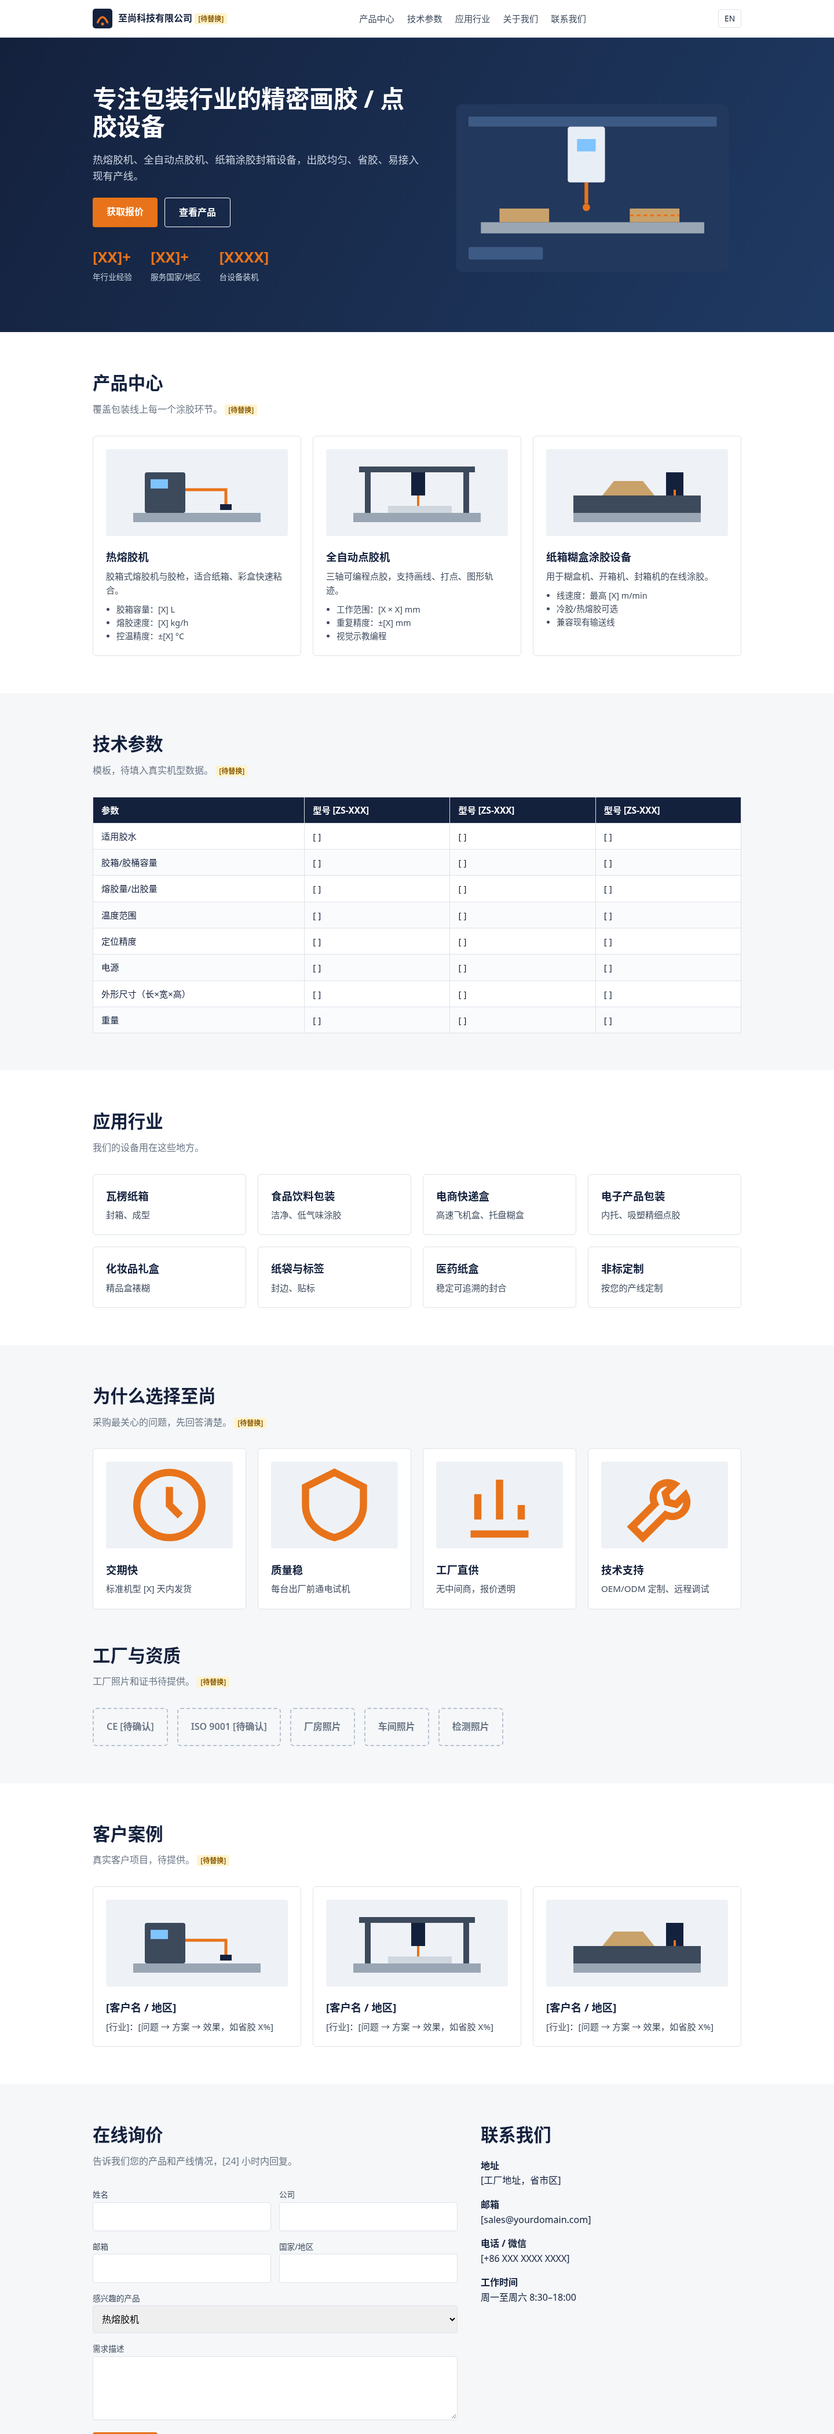
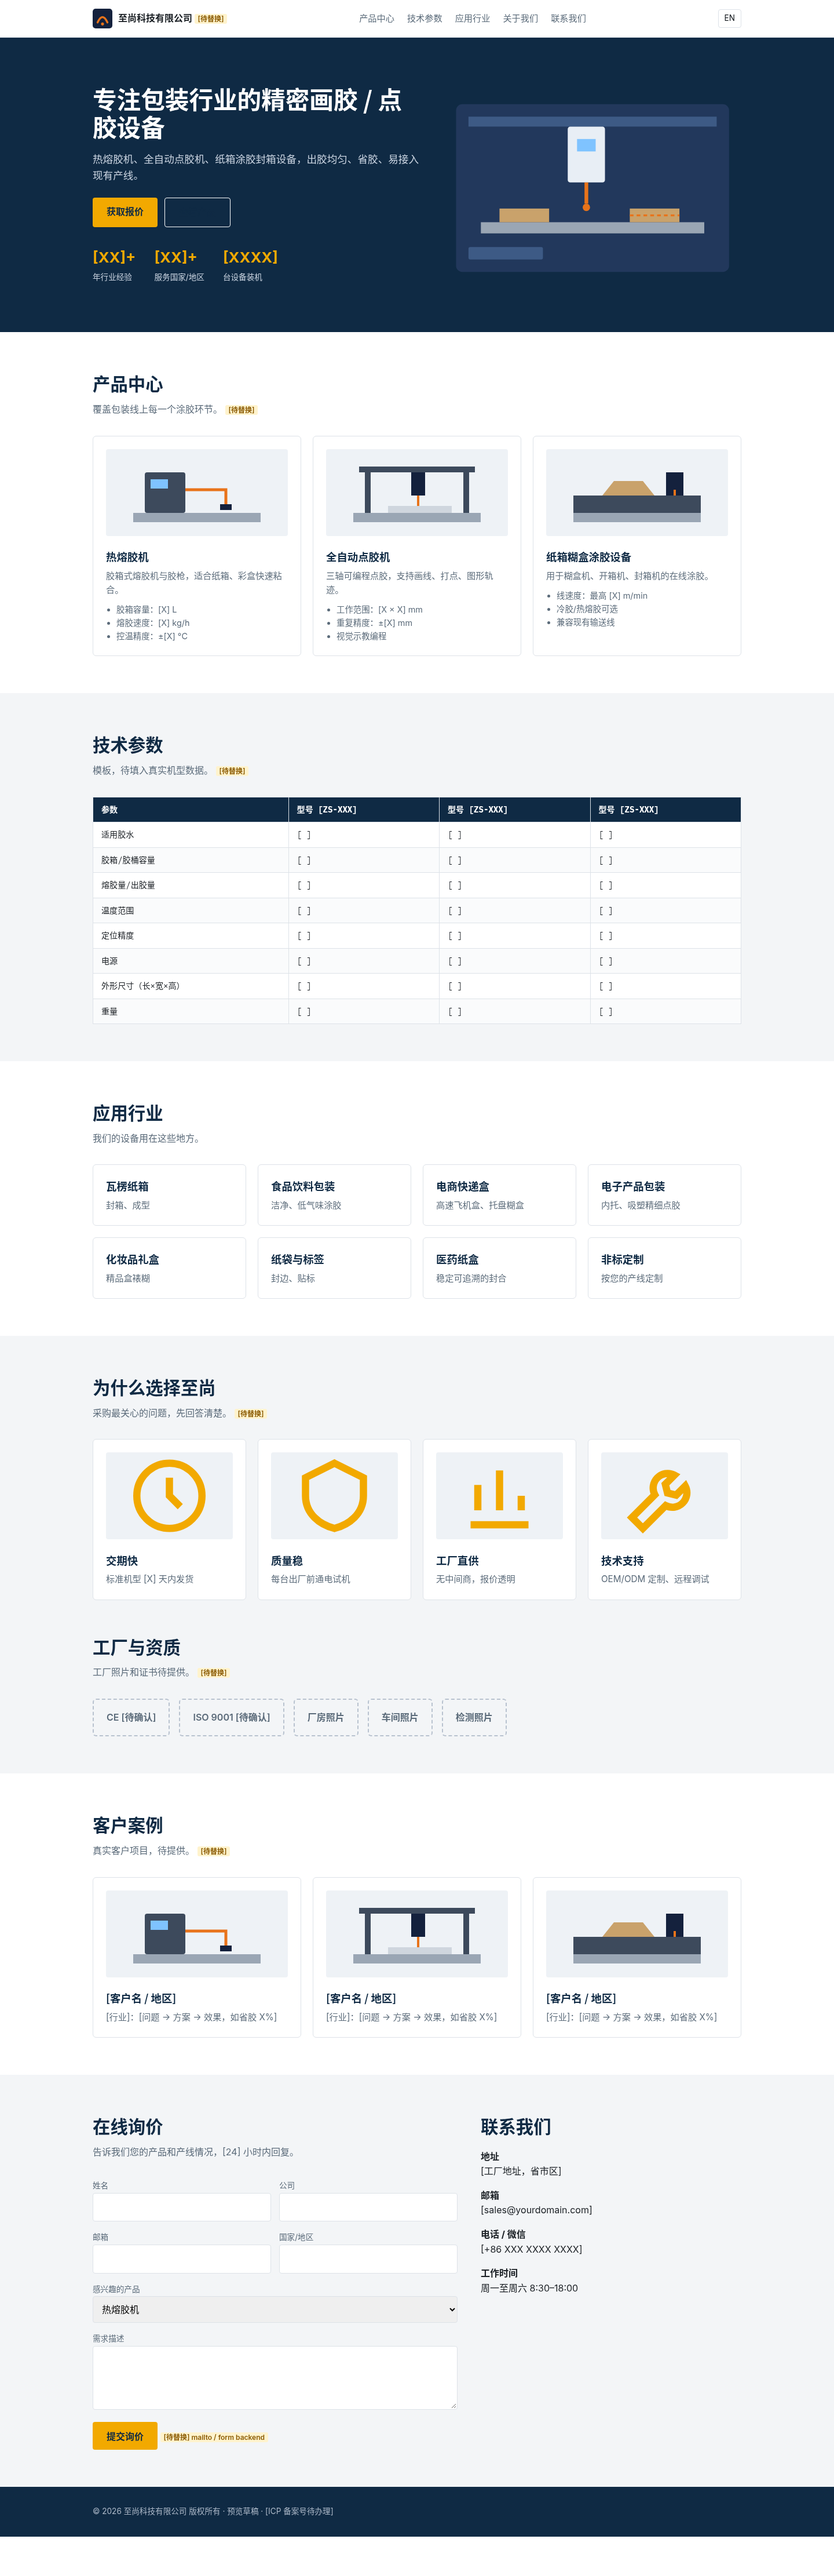
Apply designer spec

diff --git a/assets/style.css b/assets/style.css
@@ -1,5 +1,5 @@
-:root{--ink:#14213d;--steel:#3d4a5c;--mute:#6b7685;--line:#dde2e8;--bg:#f5f7f9;--accent:#e8731a;--blue:#1f5fa8}
-*{box-sizing:border-box}body{margin:0;font-family:system-ui,-apple-system,"Segoe UI","PingFang SC","Microsoft YaHei",sans-serif;color:var(--ink);line-height:1.6}
+:root{--ink:#0F2A44;--text:#1A1F24;--steel:#5B6B7A;--mute:#5B6B7A;--line:#dde2e8;--bg:#F3F5F7;--accent:#F2A900}
+*{box-sizing:border-box}body{margin:0;font-family:Inter,"IBM Plex Sans","Noto Sans SC","Source Han Sans SC",sans-serif;color:var(--text);line-height:1.6}
 a{color:inherit}.wrap{max-width:1160px;margin:0 auto;padding:0 20px}
 .ph{background:#fff3cd;color:#8a5a00;font-size:.75em;padding:1px 6px;border-radius:3px;font-weight:600;white-space:nowrap}
 header{position:sticky;top:0;background:#fff;border-bottom:1px solid var(--line);z-index:9}
@@ -7,9 +7,9 @@ header .wrap{display:flex;align-items:center;justify-content:space-between;heigh
 .logo{display:flex;align-items:center;gap:10px;font-weight:800;text-decoration:none}.logo svg{width:34px;height:34px}
 nav{display:flex;gap:22px;font-size:.95rem}nav a{text-decoration:none;color:var(--steel)}nav a:hover{color:var(--accent)}
 .lang{border:1px solid var(--line);padding:4px 10px;border-radius:4px;text-decoration:none;font-size:.85rem}
-.btn{display:inline-block;background:var(--accent);color:#fff;padding:12px 24px;border-radius:4px;text-decoration:none;font-weight:600;border:0;cursor:pointer;font-size:1rem}
+.btn{display:inline-block;background:var(--accent);color:#0F2A44;padding:12px 24px;border-radius:4px;text-decoration:none;font-weight:600;border:0;cursor:pointer;font-size:1rem}
 .btn.ghost{background:transparent;border:1px solid #fff}
-.hero{background:linear-gradient(120deg,#14213d,#1f3a63);color:#fff;padding:72px 0}
+.hero{background:#0F2A44;color:#fff;padding:72px 0}
 .hero .wrap{display:grid;grid-template-columns:1.1fr 1fr;gap:40px;align-items:center}
 .hero h1{font-size:2.6rem;line-height:1.15;margin:0 0 16px}.hero p{color:#c9d3e0;font-size:1.1rem}
 .hero .cta{display:flex;gap:12px;margin-top:24px;flex-wrap:wrap}
@@ -31,3 +31,10 @@ label{font-size:.85rem;color:var(--steel)}
 footer{background:var(--ink);color:#aab6c6;padding:32px 0;font-size:.85rem}
 @media(max-width:820px){nav{display:none}.hero .wrap,.contact{grid-template-columns:1fr}.g3,.g4{grid-template-columns:1fr 1fr}.hero h1{font-size:1.9rem}form{grid-template-columns:1fr}.tbl{overflow-x:auto}}
 @media(max-width:520px){.g3,.g4{grid-template-columns:1fr}.stats{gap:18px}}
+h1,h2,h3{font-family:"Barlow Semi Condensed","Noto Sans SC",sans-serif;color:var(--ink)}.hero h1{color:#fff}
+:lang(zh-CN) h1,:lang(zh-CN) h2,:lang(zh-CN) h3{font-family:"Noto Sans SC","Source Han Sans SC",sans-serif;font-weight:700}
+table{font-family:"IBM Plex Mono",monospace;font-size:.88rem}
+.bead{display:block;width:100%;max-width:520px;height:14px;margin:4px 0 18px}.bead path{stroke:var(--accent);stroke-width:4;fill:none;stroke-linecap:round;stroke-dasharray:600;stroke-dashoffset:600;animation:draw 2.4s linear forwards}
+.divider{height:14px;max-width:1160px;margin:0 auto;padding:0 20px}.divider svg{width:180px;height:14px}.divider path{stroke:var(--accent);stroke-width:3;fill:none;stroke-linecap:round}
+@keyframes draw{to{stroke-dashoffset:0}}@media(prefers-reduced-motion:reduce){.bead path{animation:none;stroke-dashoffset:0}}
+.kw{font-size:.8rem;color:var(--steel);margin-top:10px}

diff --git a/gen.py b/gen.py
@@ -1,28 +1,28 @@
 import json
 P=lambda s:f'<span class="ph">{s}</span>'
-LOGO='<svg viewBox="0 0 40 40"><rect width="40" height="40" rx="6" fill="#14213d"/><path d="M10 28 Q20 6 30 28" stroke="#e8731a" stroke-width="4" fill="none" stroke-linecap="round"/><circle cx="20" cy="31" r="3" fill="#e8731a"/></svg>'
+LOGO='<svg viewBox="0 0 40 40"><rect width="40" height="40" rx="6" fill="#0F2A44"/><path d="M10 28 Q20 6 30 28" stroke="#F2A900" stroke-width="4" fill="none" stroke-linecap="round"/><circle cx="20" cy="31" r="3" fill="#F2A900"/></svg>'
 def mach(kind):
   # neutral generated illustrations
-  base='<rect x="40" y="110" width="220" height="16" fill="#9aa6b4"/>'
-  if kind==0: art='<rect x="60" y="40" width="70" height="70" rx="4" fill="#3d4a5c"/><rect x="70" y="52" width="30" height="16" fill="#7fc3ff"/><path d="M130 70 H200 V95" stroke="#e8731a" stroke-width="5" fill="none"/><rect x="190" y="95" width="20" height="10" fill="#14213d"/>'
-  elif kind==1: art='<rect x="50" y="30" width="200" height="10" fill="#3d4a5c"/><rect x="60" y="30" width="10" height="80" fill="#3d4a5c"/><rect x="230" y="30" width="10" height="80" fill="#3d4a5c"/><rect x="140" y="40" width="24" height="40" fill="#14213d"/><path d="M152 80 V98" stroke="#e8731a" stroke-width="4"/><rect x="100" y="98" width="110" height="12" fill="#cfd6de"/>'
-  else: art='<rect x="40" y="80" width="220" height="30" fill="#3d4a5c"/><path d="M90 80 l20-25 h50 l20 25z" fill="#c9a26b"/><rect x="200" y="40" width="30" height="40" fill="#14213d"/><path d="M215 80 V70" stroke="#e8731a" stroke-width="4"/><circle cx="60" cy="118" r="7" fill="#14213d"/><circle cx="240" cy="118" r="7" fill="#14213d"/>'
+  base='<rect x="40" y="110" width="220" height="16" fill="#5B6B7A"/>'
+  if kind==0: art='<rect x="60" y="40" width="70" height="70" rx="4" fill="#1d3d5e"/><rect x="70" y="52" width="30" height="16" fill="#F2A900"/><path d="M130 70 H200 V95" stroke="#F2A900" stroke-width="5" fill="none"/><rect x="190" y="95" width="20" height="10" fill="#0F2A44"/>'
+  elif kind==1: art='<rect x="50" y="30" width="200" height="10" fill="#1d3d5e"/><rect x="60" y="30" width="10" height="80" fill="#1d3d5e"/><rect x="230" y="30" width="10" height="80" fill="#1d3d5e"/><rect x="140" y="40" width="24" height="40" fill="#0F2A44"/><path d="M152 80 V98" stroke="#F2A900" stroke-width="4"/><rect x="100" y="98" width="110" height="12" fill="#2c5378"/>'
+  else: art='<rect x="40" y="80" width="220" height="30" fill="#1d3d5e"/><path d="M90 80 l20-25 h50 l20 25z" fill="#2c5378"/><rect x="200" y="40" width="30" height="40" fill="#0F2A44"/><path d="M215 80 V70" stroke="#F2A900" stroke-width="4"/><circle cx="60" cy="118" r="7" fill="#0F2A44"/><circle cx="240" cy="118" r="7" fill="#0F2A44"/>'
   return f'<svg viewBox="0 0 300 150" role="img" aria-label="illustration">{art}{base}</svg>'
-HERO='<svg viewBox="0 0 480 340" aria-hidden="true"><rect x="20" y="40" width="440" height="270" rx="10" fill="#22385c"/><rect x="40" y="60" width="400" height="16" fill="#3d5a85"/><rect x="200" y="76" width="60" height="90" rx="4" fill="#e8eef5"/><rect x="215" y="96" width="30" height="20" fill="#7fc3ff"/><path d="M230 166 V200" stroke="#e8731a" stroke-width="6"/><circle cx="230" cy="206" r="6" fill="#e8731a"/><rect x="60" y="230" width="360" height="18" fill="#9aa6b4"/><rect x="90" y="208" width="80" height="22" fill="#c9a26b"/><rect x="300" y="208" width="80" height="22" fill="#c9a26b"/><path d="M300 219 h80" stroke="#e8731a" stroke-width="3" stroke-dasharray="6 5"/><rect x="40" y="270" width="120" height="20" rx="3" fill="#3d5a85"/></svg>'
+HERO='<svg viewBox="0 0 480 340" aria-hidden="true"><rect x="20" y="40" width="440" height="270" rx="10" fill="#16365a"/><rect x="40" y="60" width="400" height="16" fill="#24496f"/><rect x="200" y="76" width="60" height="90" rx="4" fill="#24496f"/><rect x="215" y="96" width="30" height="20" fill="#F2A900"/><path d="M230 166 V200" stroke="#F2A900" stroke-width="6"/><circle cx="230" cy="206" r="6" fill="#F2A900"/><rect x="60" y="230" width="360" height="18" fill="#5B6B7A"/><rect x="90" y="208" width="80" height="22" fill="#2c5378"/><rect x="300" y="208" width="80" height="22" fill="#2c5378"/><path d="M300 219 h80" stroke="#F2A900" stroke-width="3" stroke-dasharray="6 5"/><rect x="40" y="270" width="120" height="20" rx="3" fill="#24496f"/></svg>'
 I=['<svg class="ico" viewBox="0 0 24 24" fill="none" stroke="currentColor" stroke-width="2"><circle cx="12" cy="12" r="9"/><path d="M12 7v5l3 3"/></svg>','<svg class="ico" viewBox="0 0 24 24" fill="none" stroke="currentColor" stroke-width="2"><path d="M12 3l8 4v5c0 5-4 8-8 9-4-1-8-4-8-9V7z"/></svg>','<svg class="ico" viewBox="0 0 24 24" fill="none" stroke="currentColor" stroke-width="2"><path d="M4 20h16M6 16V9M12 16V5M18 16v-4"/></svg>','<svg class="ico" viewBox="0 0 24 24" fill="none" stroke="currentColor" stroke-width="2"><path d="M14.7 6.3a4 4 0 0 0-5.4 5.4L3 18l3 3 6.3-6.3a4 4 0 0 0 5.4-5.4l-2.5 2.5-2.4-.6-.6-2.4z"/></svg>']
 T={
-'en':dict(lang='en',ph='[PLACEHOLDER]',title='Zhishang Technology | Glue Dispensing & Hot-Melt Gluing Machines for Packaging',desc='Manufacturer of hot-melt glue machines, automatic dispensing systems and carton gluing equipment for packaging lines. Factory-direct pricing, OEM support, worldwide shipping.',
+'en':dict(lang='en',ph='[PLACEHOLDER]',title='Glue Dispensing Machine &amp; Hot Melt Gluing Machine Manufacturer | Zhishang Technology',desc='Manufacturer of hot-melt glue machines, automatic dispensing systems and carton gluing equipment for packaging lines. Factory-direct pricing, OEM support, worldwide shipping.',
  co='Zhishang Technology Co., Ltd.',nav=['Products','Specs','Applications','About','Contact'],sw=('中文','zh/'),
- h1='Precise Glue Dispensing Machines for Packaging Lines',hp='Hot-melt gluing, automatic dispensing and carton sealing equipment, engineered in China and built for consistent bead quality, low glue waste and easy line integration.',
+ h1='Precision in Every Bead',hp='Gluing &amp; dispensing systems for packaging lines worldwide. Hot melt gluing machines, glue dispensing machines and carton gluing machines built for consistent beads and low glue waste.',
  c1='Request a Quote',c2='View Products',stats=[('[XX]+','Years in business'),('[XX]+','Countries served'),('[XXXX]','Units installed')],
  ph2=('Product Range','Equipment for every gluing step in your packaging line.'),
- prods=[('Hot-Melt Glue Machines','Tank melters and glue guns for fast-setting bonds on cartons and cases.',['Tank capacity: [X] L','Melt rate: [X] kg/h','Temperature control ±[X] °C']),
-  ('Automatic Dispensing Systems','Programmable XYZ dispensing for beads, dots and patterns with repeatable accuracy.',['Working area: [X × X] mm','Repeatability: ±[X] mm','Visual path teaching']),
-  ('Carton & Box Gluing Lines','Inline glue application for folder-gluers, case erectors and box sealing.',['Line speed: up to [X] m/min','Cold glue / hot-melt options','Fits existing conveyors'])],
+ kw='Also: hot melt adhesive melter · cold glue applicator · glue spray system · glue pattern controller · case sealing glue system',prods=[('Hot Melt Gluing Machines','Tank melters and glue guns for fast-setting bonds on cartons and cases.',['Tank capacity: [X] L','Melt rate: [X] kg/h','Temperature control ±[X] °C']),
+  ('Automatic Glue Dispensing Machines','Programmable XYZ dispensing for beads, dots and patterns with repeatable accuracy.',['Working area: [X × X] mm','Repeatability: ±[X] mm','Visual path teaching']),
+  ('Carton Gluing Machines','Inline glue application for folder-gluers, case erectors and box sealing.',['Line speed: up to [X] m/min','Cold glue / hot-melt options','Fits existing conveyors'])],
  sp=('Technical Specifications','Template. Values to be filled from real model data.'),
  th=['Parameter','Model [ZS-XXX]','Model [ZS-XXX]','Model [ZS-XXX]'],
  rows=['Glue type','Tank / reservoir capacity','Melt rate / output','Temperature range','Positioning accuracy','Power supply','Dimensions (L×W×H)','Weight'],
- ap=('Applications','Where our machines are used.'),apps=[('Corrugated Cartons','Case sealing and box forming.'),('Food & Beverage Packaging','Clean, low-odour adhesive application.'),('E-commerce Boxes','High-speed tray and mailer gluing.'),('Electronics Packaging','Fine-dot dispensing on inserts and trays.'),('Cosmetic & Gift Boxes','Rigid box wrapping and lining.'),('Paper Bags & Labels','Seam and label gluing.'),('Pharmaceutical Cartons','Traceable, consistent sealing.'),('Custom Projects','Tailored to your line. Ask us.')],
+ ap=('Applications','Where our machines are used.'),apps=[('Folding Carton Gluers','Inline glue for folder-gluer lines.'),('Case Erectors','Hot melt for case forming.'),('Corrugated Boxes','Sealing and box forming.'),('Food Packaging','Clean, low-odour application.'),('Beverage Trays','High-speed tray gluing.'),('Paper Bags','Seam and bottom gluing.'),('Pharmaceutical Cartons','Traceable, consistent sealing.'),('E-commerce Box Sealing &amp; Gift Boxes','Mailers and rigid gift boxes.')],
  why=('Why Zhishang','What buyers care about, answered up front.'),whys=[('Fast delivery','Standard models ship in [X] days.'),('Reliable quality','Every machine is run-tested before shipping.'),('Factory-direct pricing','No middlemen, transparent quotes.'),('Engineering support','OEM/ODM customisation and remote commissioning.')],
  fac=('Factory & Certifications','Photos and certificates to be supplied.'),certs=['CE [TBC]','ISO 9001 [TBC]','Factory photo','Workshop photo','Testing photo'],
  cs=('Case Studies','Real customer projects. To be supplied.'),cases=[('[Customer / Country]','[Industry]: [Problem → Solution → Result, e.g. glue usage −X%]')]*3,
@@ -32,15 +32,15 @@ T={
  foot='Zhishang Technology Co., Ltd. [English name to be confirmed]. All rights reserved. Preview draft.'),
 'zh':dict(lang='zh-CN',ph='[待替换]',title='至尚科技 | 包装画胶机、点胶机、热熔胶机生产厂家',desc='至尚科技有限公司专业生产热熔胶机、全自动点胶机、纸箱糊盒涂胶设备，工厂直供，支持定制，服务国内外包装企业。',
  co='至尚科技有限公司',nav=['产品中心','技术参数','应用行业','关于我们','联系我们'],sw=('EN','../'),
- h1='专注包装行业的精密画胶 / 点胶设备',hp='热熔胶机、全自动点胶机、纸箱涂胶封箱设备，出胶均匀、省胶、易接入现有产线。',
+ h1='每一道胶线，都精准如一',hp='至尚科技 · 包装画胶与点胶设备，服务全球工厂。热熔胶机、全自动点胶机、纸箱涂胶设备，出胶均匀、省胶、易接入现有产线。',
  c1='获取报价',c2='查看产品',stats=[('[XX]+','年行业经验'),('[XX]+','服务国家/地区'),('[XXXX]','台设备装机')],
  ph2=('产品中心','覆盖包装线上每一个涂胶环节。'),
- prods=[('热熔胶机','胶箱式熔胶机与胶枪，适合纸箱、彩盒快速粘合。',['胶箱容量：[X] L','熔胶速度：[X] kg/h','控温精度：±[X] °C']),
+ kw='更多：热熔胶熔胶机 · 冷胶涂胶机 · 喷胶系统 · 胶型控制器 · 封箱涂胶系统',prods=[('热熔胶机','胶箱式熔胶机与胶枪，适合纸箱、彩盒快速粘合。',['胶箱容量：[X] L','熔胶速度：[X] kg/h','控温精度：±[X] °C']),
   ('全自动点胶机','三轴可编程点胶，支持画线、打点、图形轨迹。',['工作范围：[X × X] mm','重复精度：±[X] mm','视觉示教编程']),
   ('纸箱糊盒涂胶设备','用于糊盒机、开箱机、封箱机的在线涂胶。',['线速度：最高 [X] m/min','冷胶/热熔胶可选','兼容现有输送线'])],
  sp=('技术参数','模板，待填入真实机型数据。'),th=['参数','型号 [ZS-XXX]','型号 [ZS-XXX]','型号 [ZS-XXX]'],
  rows=['适用胶水','胶箱/胶桶容量','熔胶量/出胶量','温度范围','定位精度','电源','外形尺寸（长×宽×高）','重量'],
- ap=('应用行业','我们的设备用在这些地方。'),apps=[('瓦楞纸箱','封箱、成型'),('食品饮料包装','洁净、低气味涂胶'),('电商快递盒','高速飞机盒、托盘糊盒'),('电子产品包装','内托、吸塑精细点胶'),('化妆品礼盒','精品盒裱糊'),('纸袋与标签','封边、贴标'),('医药纸盒','稳定可追溯的封合'),('非标定制','按您的产线定制')],
+ ap=('应用行业','我们的设备用在这些地方。'),apps=[('糊盒机','折叠纸盒在线涂胶'),('开箱机','纸箱成型热熔胶'),('瓦楞纸箱','封箱、成型'),('食品包装','洁净、低气味涂胶'),('饮料托盘','高速托盘糊盒'),('纸袋','封边、糊底'),('医药纸盒','稳定可追溯的封合'),('电商封箱与礼盒','飞机盒、精品礼盒')],
  why=('为什么选择至尚','采购最关心的问题，先回答清楚。'),whys=[('交期快','标准机型 [X] 天内发货'),('质量稳','每台出厂前通电试机'),('工厂直供','无中间商，报价透明'),('技术支持','OEM/ODM 定制、远程调试')],
  fac=('工厂与资质','工厂照片和证书待提供。'),certs=['CE [待确认]','ISO 9001 [待确认]','厂房照片','车间照片','检测照片'],
  cs=('客户案例','真实客户项目，待提供。'),cases=[('[客户名 / 地区]','[行业]：[问题 → 方案 → 效果，如省胶 X%]')]*3,
@@ -66,18 +66,18 @@ def page(k,css,href):
 <title>{t['title']}</title><meta name="description" content="{t['desc']}">
 <link rel="canonical" href="{URL}{'' if k=='en' else 'zh/'}"><link rel="alternate" hreflang="en" href="{URL}"><link rel="alternate" hreflang="zh-CN" href="{URL}zh/">
 <meta property="og:title" content="{t['title']}"><meta property="og:description" content="{t['desc']}">
-<link rel="stylesheet" href="{css}"><script type="application/ld+json">{json.dumps(ld,ensure_ascii=False)}</script></head><body>
+<link rel="preconnect" href="https://fonts.googleapis.com"><link rel="stylesheet" href="https://fonts.googleapis.com/css2?family=Barlow+Semi+Condensed:wght@600;700&family=Inter:wght@400;600&family=IBM+Plex+Mono&family=Noto+Sans+SC:wght@400;700&display=swap"><link rel="stylesheet" href="{css}"><script type="application/ld+json">{json.dumps(ld,ensure_ascii=False)}</script></head><body>
 <header><div class="wrap"><a class="logo" href="#">{LOGO}<span>{t['co']} {ph}</span></a><nav>{nav}</nav><a class="lang" href="{t['sw'][1]}">{t['sw'][0]}</a></div></header>
 <main>
-<section class="hero"><div class="wrap"><div><h1>{t['h1']}</h1><p>{t['hp']}</p><div class="cta"><a class="btn" href="#quote">{t['c1']}</a><a class="btn ghost" href="#products">{t['c2']}</a></div>
+<section class="hero"><div class="wrap"><div><h1>{t['h1']}</h1><svg class="bead" viewBox="0 0 520 14" aria-hidden="true"><path d="M4 7 C80 2 140 12 220 7 S380 2 516 7"/></svg><p>{t['hp']}</p><div class="cta"><a class="btn" href="#quote">{t['c1']}</a><a class="btn ghost" href="#products">{t['c2']}</a></div>
 <div class="stats">{"".join(f"<div><b>{a}</b><span>{b}</span></div>" for a,b in t['stats'])}</div></div>{HERO}</div></section>
-<section id="products"><div class="wrap"><h2>{t['ph2'][0]}</h2><p class="sub">{t['ph2'][1]} {ph}</p><div class="grid g3">{prods}</div></div></section>
-<section id="specs" class="alt"><div class="wrap"><h2>{t['sp'][0]}</h2><p class="sub">{t['sp'][1]} {ph}</p><div class="tbl"><table><thead><tr>{"".join(f"<th>{h}</th>" for h in t['th'])}</tr></thead><tbody>{rows}</tbody></table></div></div></section>
-<section id="applications"><div class="wrap"><h2>{t['ap'][0]}</h2><p class="sub">{t['ap'][1]}</p><div class="grid g4">{apps}</div></div></section>
-<section id="about" class="alt"><div class="wrap"><h2>{t['why'][0]}</h2><p class="sub">{t['why'][1]} {ph}</p><div class="grid g4">{whys}</div>
+'''+D+'''<section id="products"><div class="wrap"><h2>{t['ph2'][0]}</h2><p class="sub">{t['ph2'][1]} {ph}</p><div class="grid g3">{prods}</div><p class="kw">{t['kw']}</p></div></section>
+'''+D+'''<section id="specs" class="alt"><div class="wrap"><h2>{t['sp'][0]}</h2><p class="sub">{t['sp'][1]} {ph}</p><div class="tbl"><table><thead><tr>{"".join(f"<th>{h}</th>" for h in t['th'])}</tr></thead><tbody>{rows}</tbody></table></div></div></section>
+'''+D+'''<section id="applications"><div class="wrap"><h2>{t['ap'][0]}</h2><p class="sub">{t['ap'][1]}</p><div class="grid g4">{apps}</div></div></section>
+'''+D+'''<section id="about" class="alt"><div class="wrap"><h2>{t['why'][0]}</h2><p class="sub">{t['why'][1]} {ph}</p><div class="grid g4">{whys}</div>
 <h2 style="margin-top:56px">{t['fac'][0]}</h2><p class="sub">{t['fac'][1]} {ph}</p><div class="cert">{certs}</div></div></section>
-<section id="cases"><div class="wrap"><h2>{t['cs'][0]}</h2><p class="sub">{t['cs'][1]} {ph}</p><div class="grid g3">{cases}</div></div></section>
-<section id="contact" class="alt"><div class="wrap contact"><div id="quote"><h2>{t['inq'][0]}</h2><p class="sub">{t['inq'][1]}</p>
+'''+D+'''<section id="cases"><div class="wrap"><h2>{t['cs'][0]}</h2><p class="sub">{t['cs'][1]} {ph}</p><div class="grid g3">{cases}</div></div></section>
+'''+D+'''<section id="contact" class="alt"><div class="wrap contact"><div id="quote"><h2>{t['inq'][0]}</h2><p class="sub">{t['inq'][1]}</p>
 <form action="mailto:sales@example.com" method="post" enctype="text/plain"><div><label>{f[0]}</label><input name="name" required></div><div><label>{f[1]}</label><input name="company"></div>
 <div><label>{f[2]}</label><input type="email" name="email" required></div><div><label>{f[3]}</label><input name="country"></div>
 <div class="full"><label>{f[4]}</label><select name="product">{opts}</select></div><div class="full"><label>{f[5]}</label><textarea name="message"></textarea></div>
